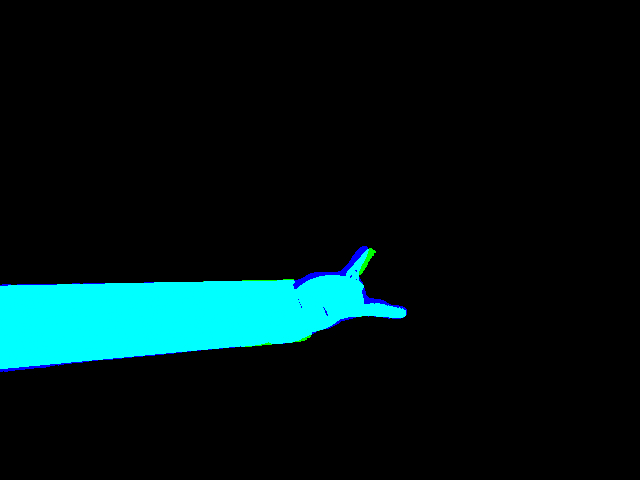
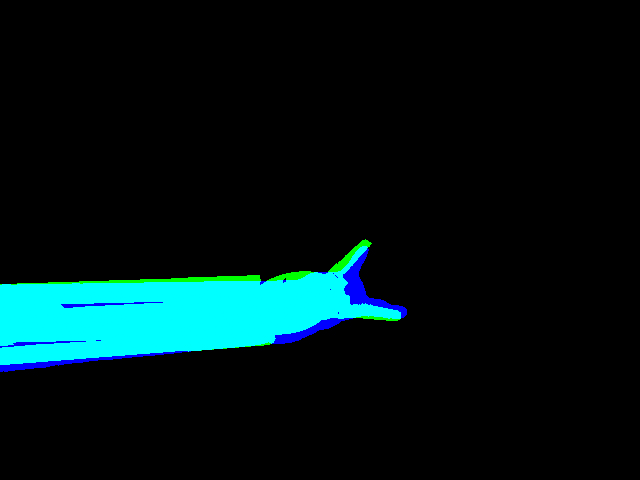
Add the option to only turn on MSE in the later stage

diff --git a/diffcali/eval_dvrk/trackers.py b/diffcali/eval_dvrk/trackers.py
@@ -26,9 +26,9 @@ torch.set_default_dtype(torch.float32)
 
 
 # Loss settings
-USE_RENDER_LOSS = True
-USE_PTS_LOSS = False  # whether to use keypoint loss
-USE_CYD_LOSS = False # whether to use cylinder loss
+USE_RENDER_LOSS = False
+USE_PTS_LOSS = True  # whether to use keypoint loss
+USE_CYD_LOSS = True # whether to use cylinder loss
 USE_DHT_LOSS = False and not USE_CYD_LOSS # whether to use DHT loss (if cylinder loss is not used)
 
 MSE_WEIGHT = 10.0  # weight for the MSE loss
@@ -446,7 +446,8 @@ class DummyLogger(Logger):
         searcher, 
         *, 
         interval: int = 1, 
-        after_first_step: bool = False, ):
+        after_first_step: bool = False
+    ):
         # Call the super constructor
         super().__init__(searcher, interval=interval, after_first_step=after_first_step)
 
@@ -457,6 +458,8 @@ class DummyLogger(Logger):
         if status["pop_best_eval"] < self.best_eval:
             self.best_solution = status["pop_best"].values.clone()
             self.best_eval = status["pop_best_eval"]
+
+        self._steps_count += 1
 
 
 class PoseEstimationProblem(Problem):
@@ -497,6 +500,9 @@ class PoseEstimationProblem(Problem):
     
     # def _fill(self, values: torch.Tensor):
     #     raise NotImplementedError("Must initialize the problem with a solution.")
+
+    def fine_search(self):
+        self.render_loss = True
 
     def update_problem(
         self, ref_mask, ref_keypoints, det_line_params, joint_angles
@@ -560,7 +566,6 @@ class PoseEstimationProblem(Problem):
             ).mean(dim=(1, 2))
 
         else:
-            print(mse)
             mse = 0.0
 
         if self.kpts_loss:
@@ -754,7 +759,7 @@ class EvoTracker(Tracker):
     def __init__(
         self, model, robot_renderer, init_cTr, init_joint_angles, 
         num_iters=5, intr=None, p_local1=None, p_local2=None, 
-        stdev_init=5e-3, use_SNES=False, optimize_joint_angles=False
+        stdev_init=5e-3, use_SNES=False, optimize_joint_angles=True
     ):
         super().__init__(model, robot_renderer, init_cTr, init_joint_angles, num_iters, intr, p_local1, p_local2)
 
@@ -841,7 +846,11 @@ class EvoTracker(Tracker):
         logger = DummyLogger(searcher, interval=1, after_first_step=True)
 
         # Run the optimization
-        searcher.run(self.num_iters)
+        num_coarse_steps = int(self.num_iters * 0.7)
+        num_fine_steps = self.num_iters - num_coarse_steps
+        searcher.run(num_coarse_steps)
+        searcher.problem.fine_search()  # Switch to fine search mode
+        searcher.run(num_fine_steps)
 
         # Extract the best solution and evaluation from the logger
         best_solution = logger.best_solution

diff --git a/README.md b/README.md
@@ -18,6 +18,8 @@ pip install ninja
 
 To install [Deep Hough Transform](https://github.com/Hanqer/deep-hough-transform) and download the pretrained weights, run
 ```
+git config --global url."https://github.com/".insteadOf "git@github.com:"
+git submodule update --init
 cd deep_hough_transform
 wget http://data.kaizhao.net/projects/deep-hough-transform/dht_r50_nkl_d97b97138.pth
 cd model/_cdht
